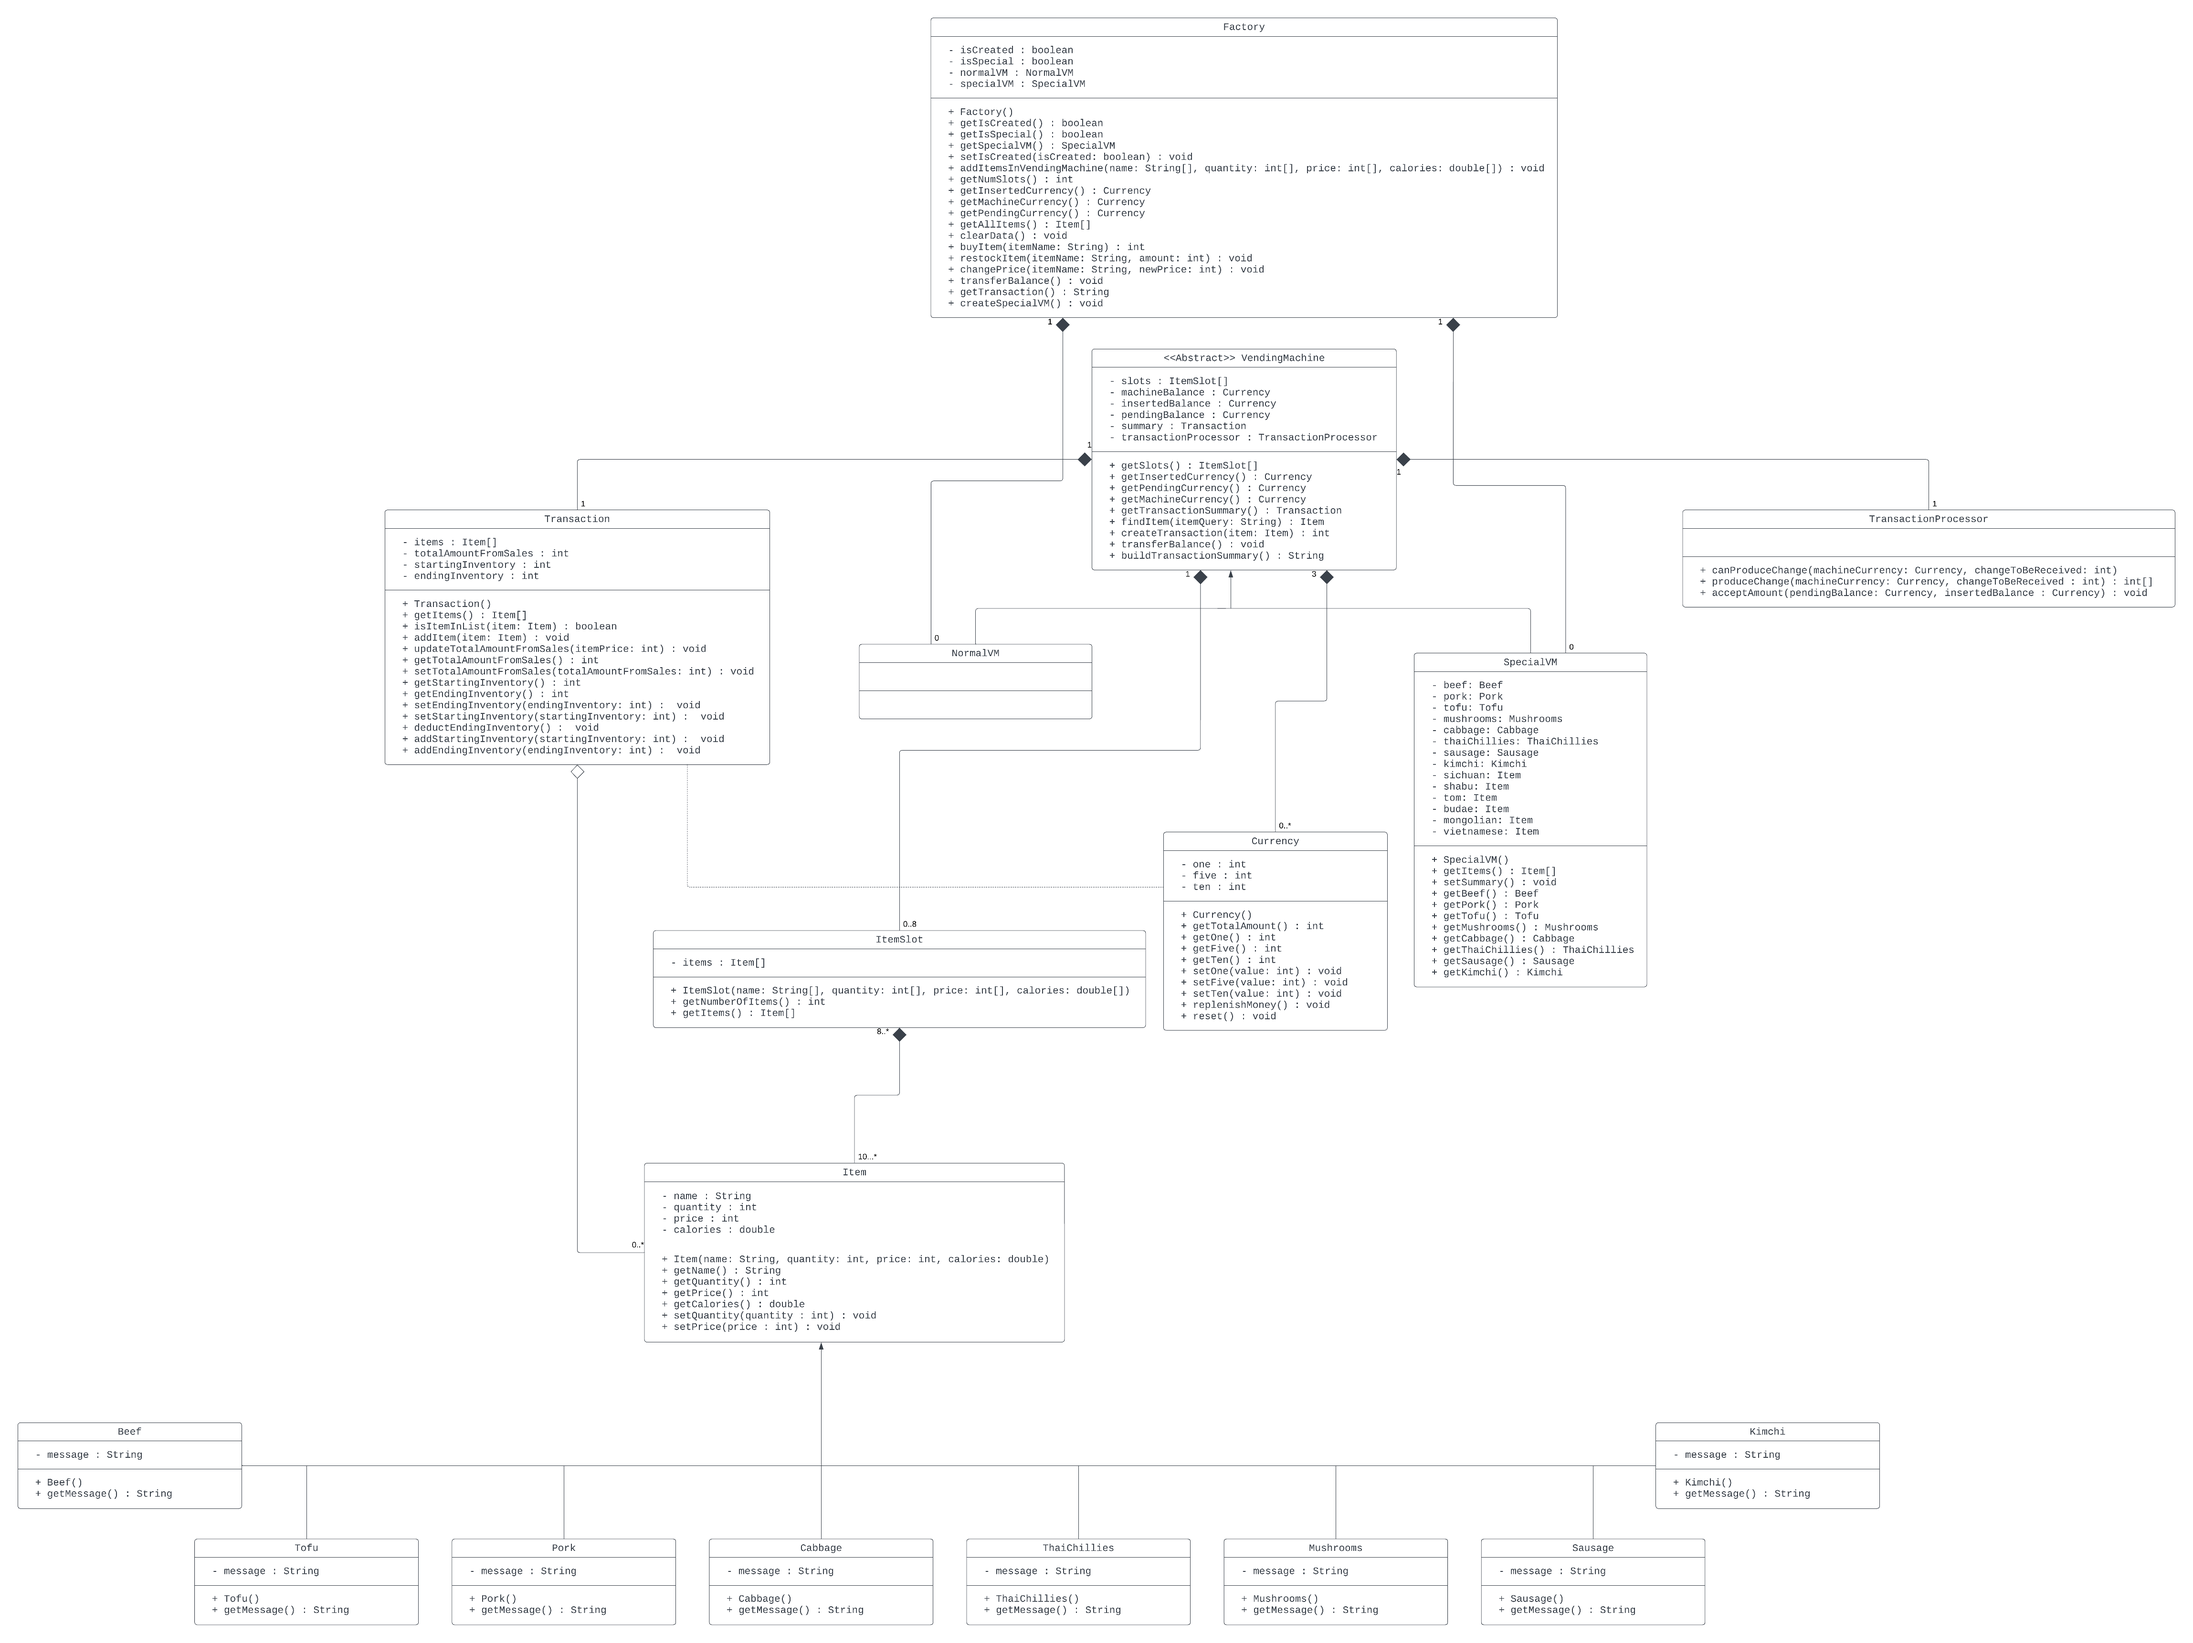
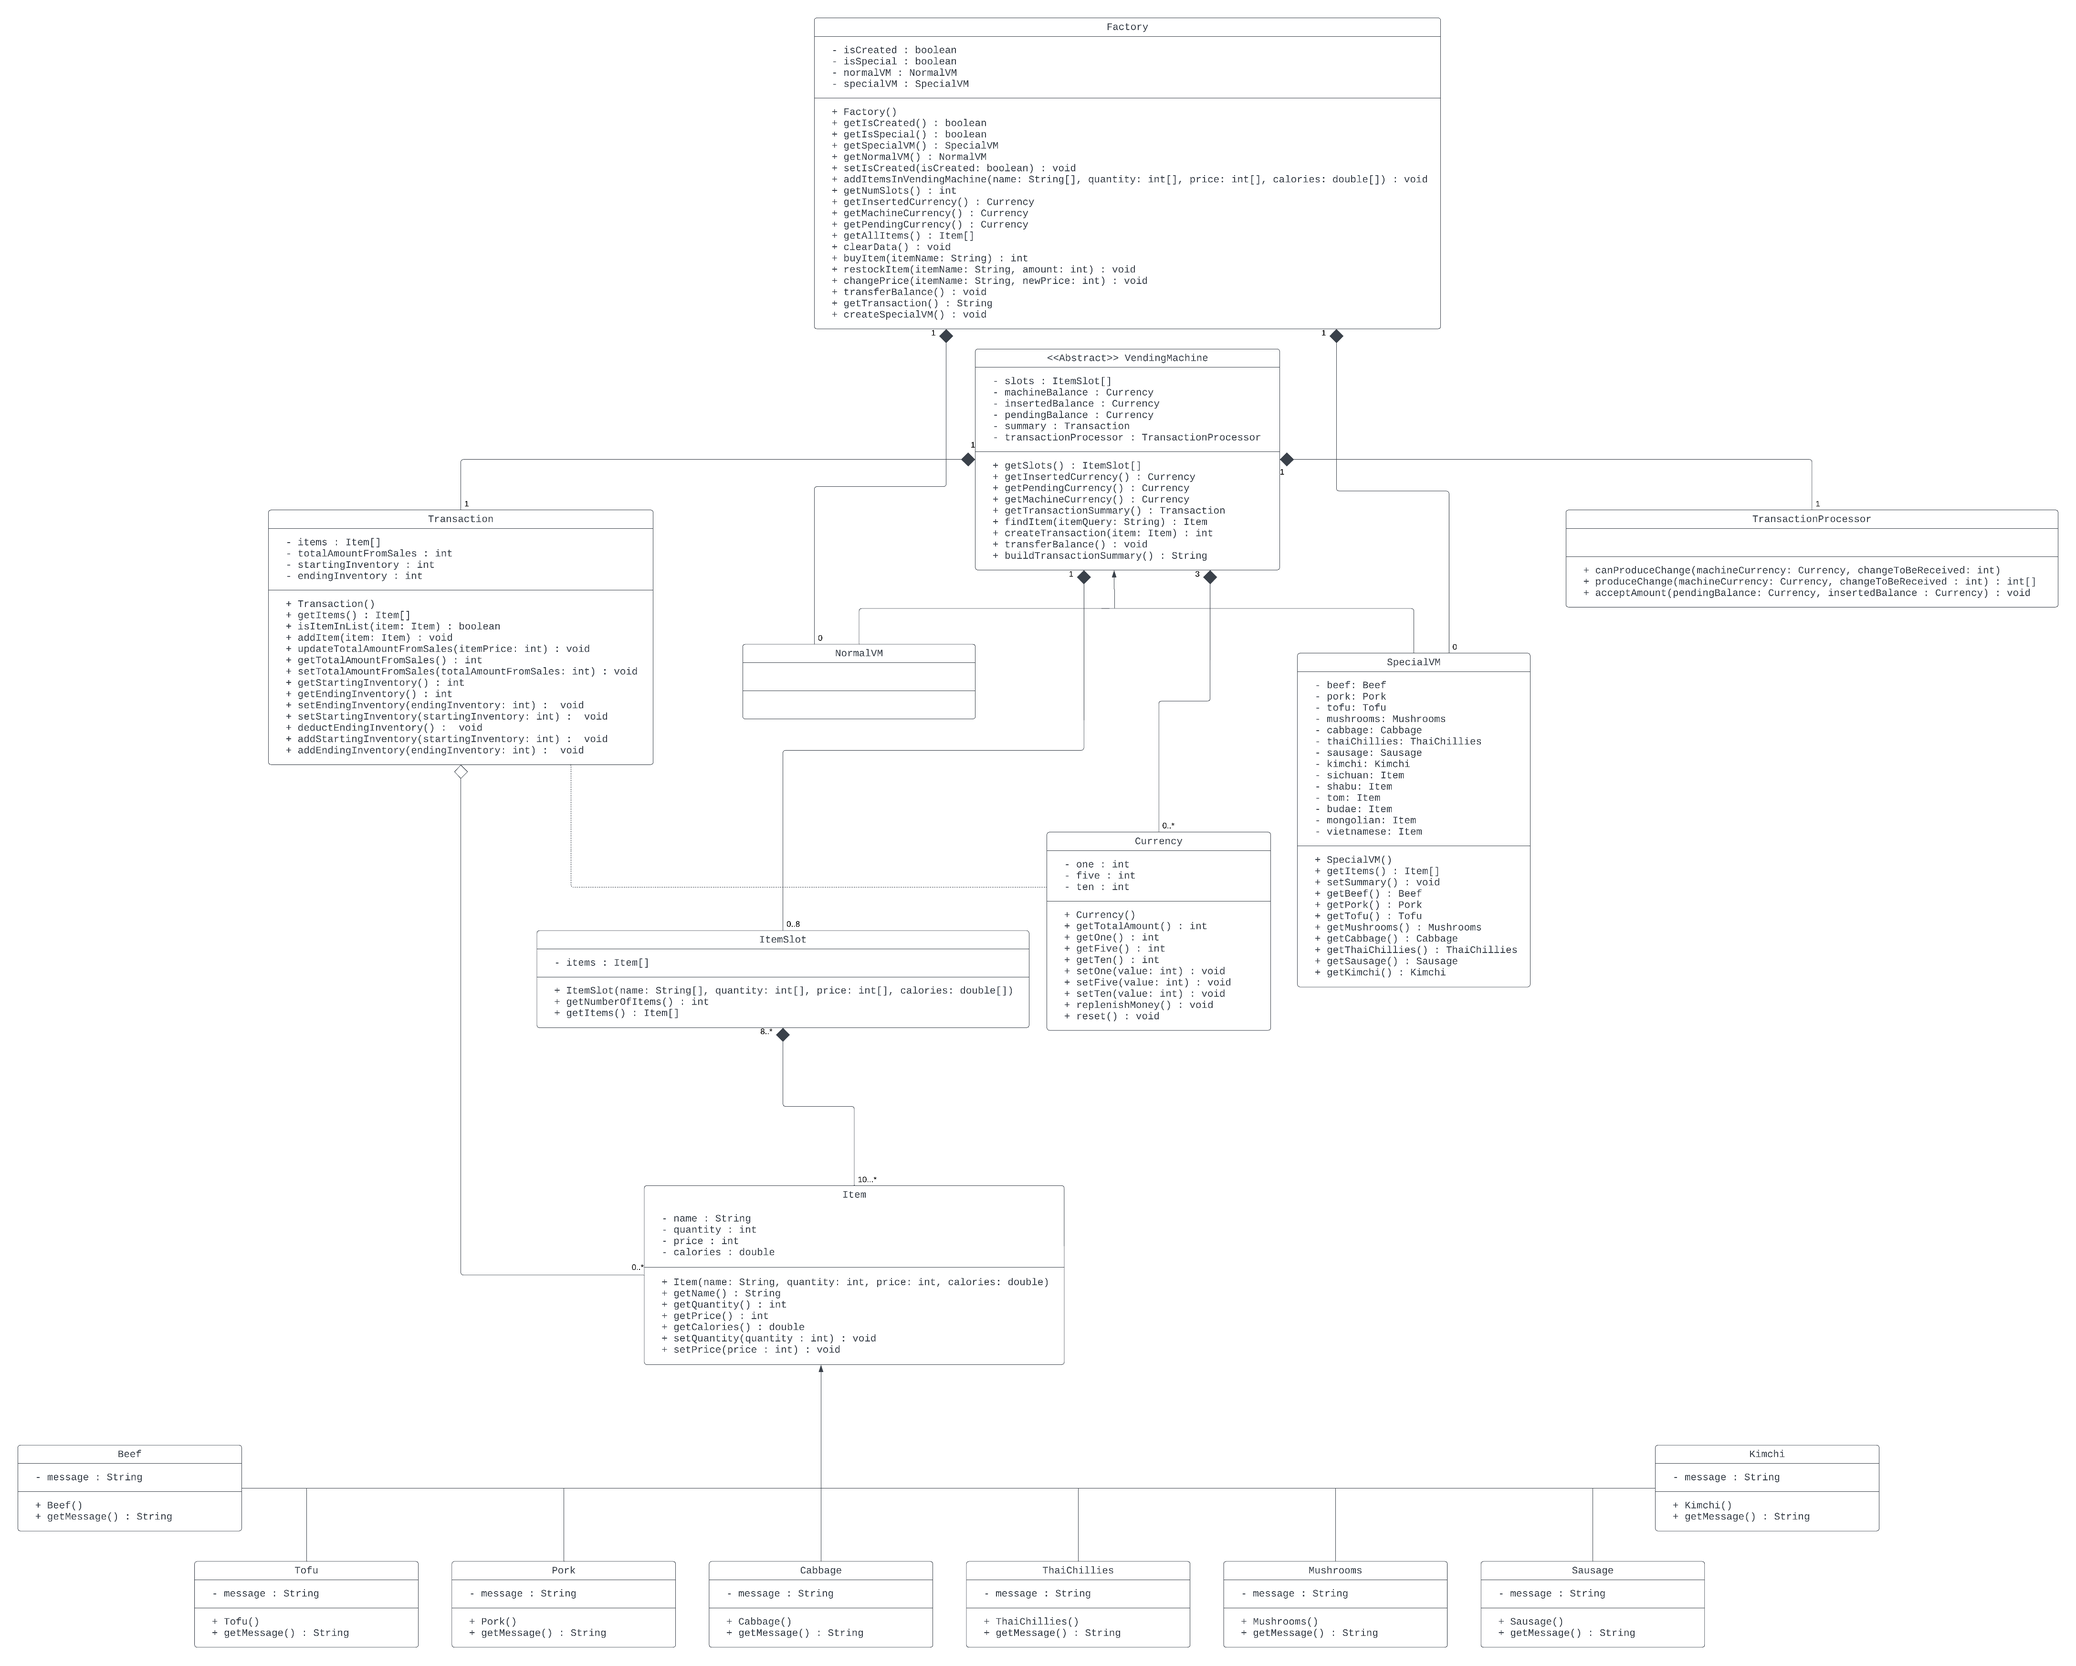
fixed endingInventory + updated UML

diff --git a/src/controller/handlers/RestockHandler.java b/src/controller/handlers/RestockHandler.java
@@ -43,6 +43,12 @@ public class RestockHandler {
         itemCalories[i] = itemsList[i].getCalories();
       }
 
+      if (model.getIsSpecial() == true) {
+        model.getSpecialVM().getTransactionSummary().addEndingInventory(restockAmount);
+      } else {
+        model.getNormalVM().getTransactionSummary().addEndingInventory(restockAmount);
+      }
+
       restock.clearField();
       JOptionPane.showMessageDialog(null, "Successfully Restocked Item!");
       restock.setDatabase(itemNames, itemQuantities, itemPrices, itemCalories);

diff --git a/src/model/Factory.java b/src/model/Factory.java
@@ -30,6 +30,10 @@ public class Factory {
     return specialVM;
   }
 
+  public NormalVM getNormalVM() {
+    return normalVM;
+  }
+
   public void setIsCreated(boolean isCreated) {
     this.isCreated = isCreated;
   }
